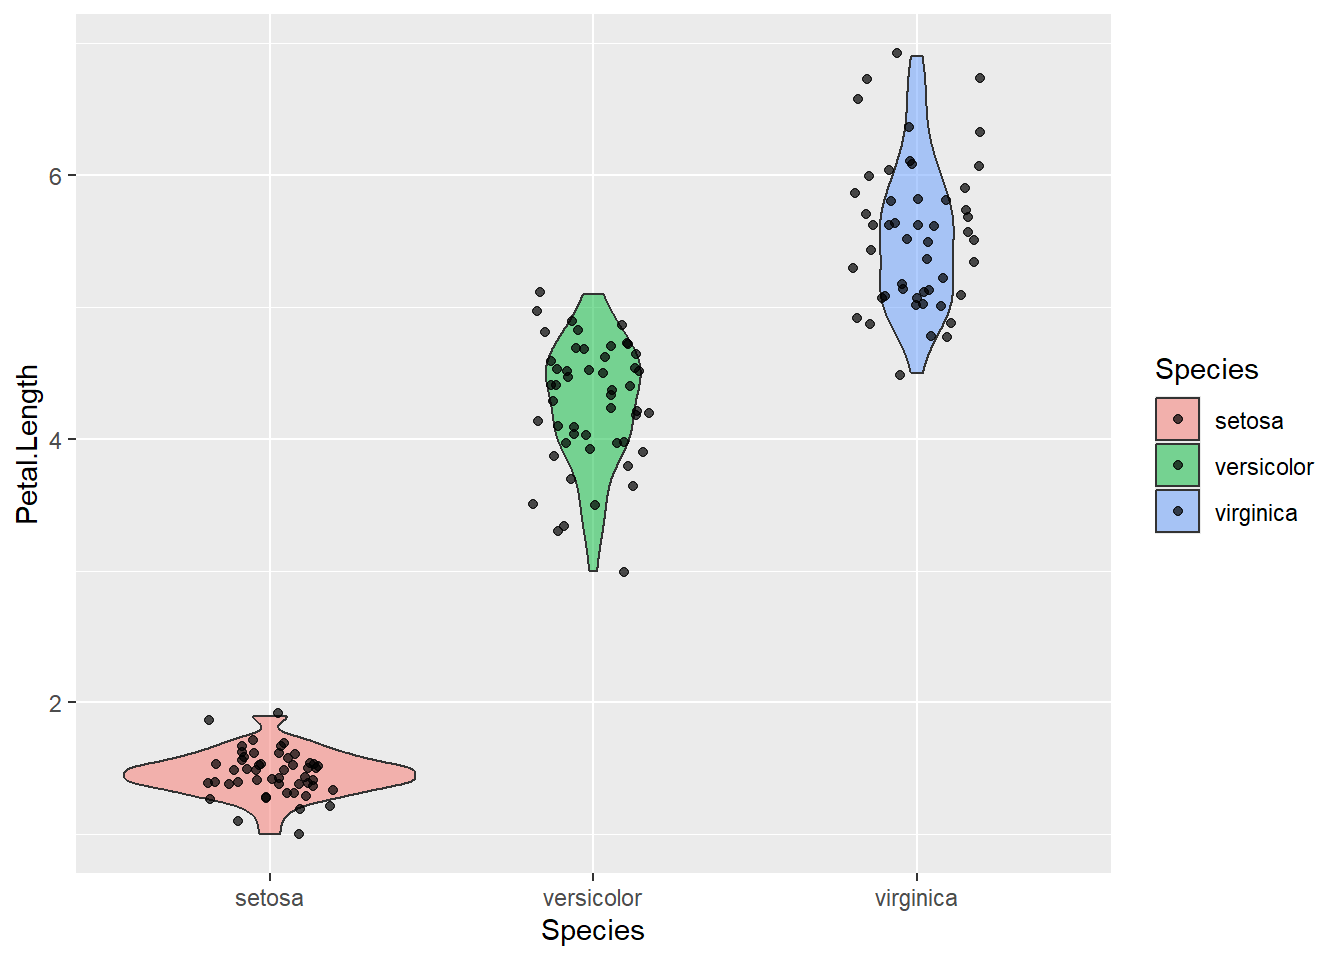
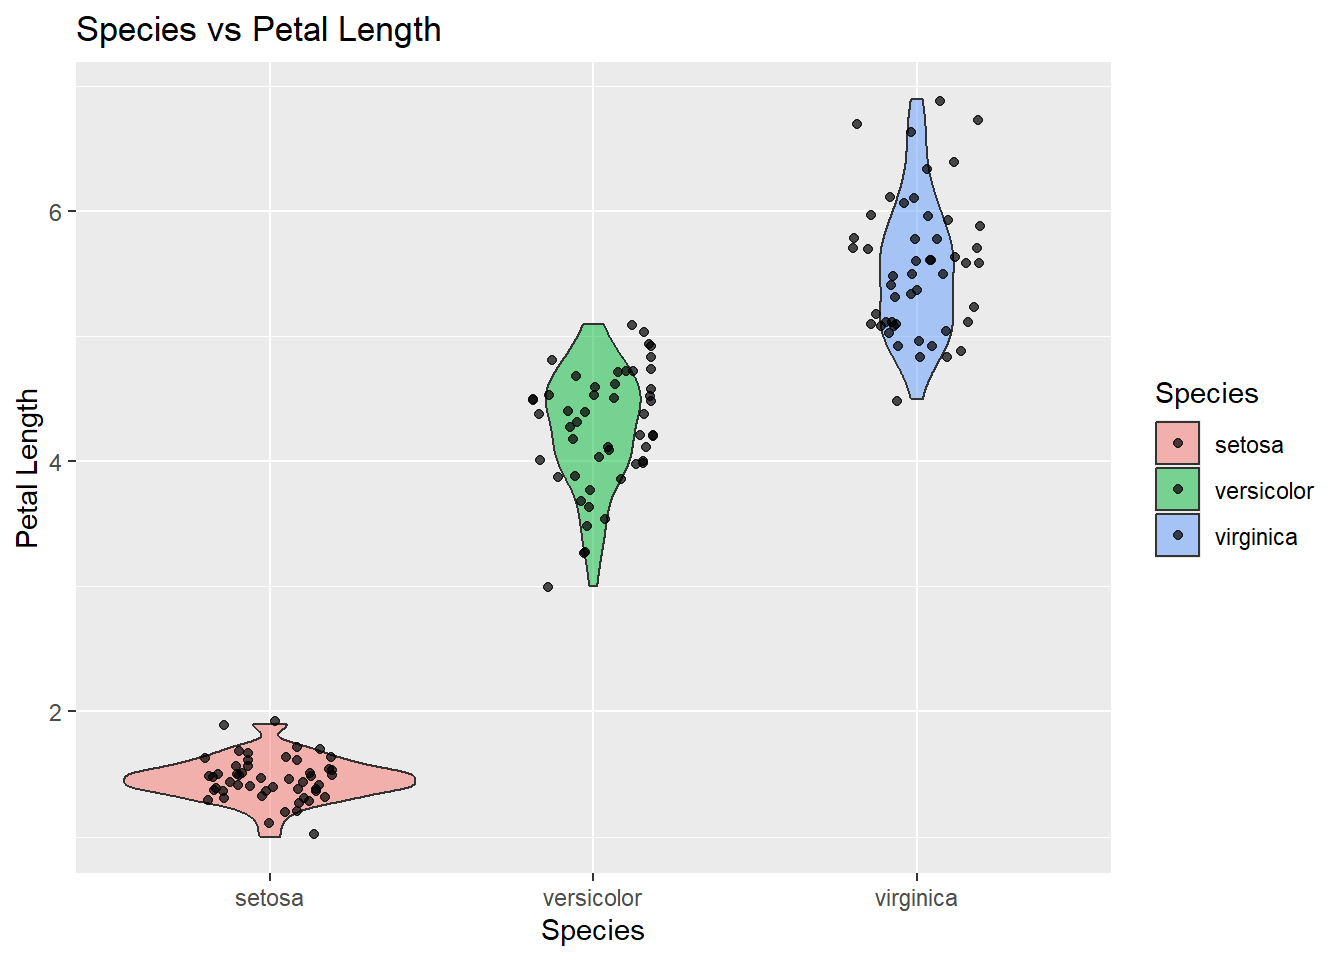
changes

diff --git a/docs/Homework_09.html b/docs/Homework_09.html
@@ -243,7 +243,8 @@ Attaching package: 'dplyr'</code></pre>
 <div class="cell">
 <div class="code-copy-outer-scaffold"><div class="sourceCode cell-code" id="cb10"><pre class="sourceCode r code-with-copy"><code class="sourceCode r"><span id="cb10-1"><a href="#cb10-1" aria-hidden="true" tabindex="-1"></a><span class="fu">ggplot</span>(iris, <span class="fu">aes</span>(<span class="at">x =</span> Species, <span class="at">y =</span> Petal.Length, <span class="at">fill =</span> Species)) <span class="sc">+</span></span>
 <span id="cb10-2"><a href="#cb10-2" aria-hidden="true" tabindex="-1"></a>  <span class="fu">geom_violin</span>(<span class="at">alpha =</span> <span class="fl">0.5</span>) <span class="sc">+</span></span>
-<span id="cb10-3"><a href="#cb10-3" aria-hidden="true" tabindex="-1"></a>  <span class="fu">geom_jitter</span>(<span class="at">width =</span> <span class="fl">0.2</span>, <span class="at">alpha =</span> <span class="fl">0.7</span>)</span></code></pre></div><button title="Copy to Clipboard" class="code-copy-button"><i class="bi"></i></button></div>
+<span id="cb10-3"><a href="#cb10-3" aria-hidden="true" tabindex="-1"></a>   <span class="fu">labs</span>(<span class="at">title =</span> <span class="st">"Species vs Petal Length"</span>, <span class="at">y=</span> <span class="st">"Petal Length"</span>)<span class="sc">+</span></span>
+<span id="cb10-4"><a href="#cb10-4" aria-hidden="true" tabindex="-1"></a>  <span class="fu">geom_jitter</span>(<span class="at">width =</span> <span class="fl">0.2</span>, <span class="at">alpha =</span> <span class="fl">0.7</span>)</span></code></pre></div><button title="Copy to Clipboard" class="code-copy-button"><i class="bi"></i></button></div>
 <div class="cell-output-display">
 <div>
 <figure class="figure">
@@ -308,6 +309,24 @@ Attaching package: 'dplyr'</code></pre>
 4                 1
 5                 1
 6                 1</code></pre>
+</div>
+<div class="code-copy-outer-scaffold"><div class="sourceCode cell-code" id="cb17"><pre class="sourceCode r code-with-copy"><code class="sourceCode r"><span id="cb17-1"><a href="#cb17-1" aria-hidden="true" tabindex="-1"></a>d5<span class="ot">&lt;-</span> d <span class="sc">|&gt;</span></span>
+<span id="cb17-2"><a href="#cb17-2" aria-hidden="true" tabindex="-1"></a>    <span class="fu">mutate</span>(d, <span class="at">newPetal=</span> Petal.Length<span class="sc">&gt;=</span> <span class="dv">4</span>)</span>
+<span id="cb17-3"><a href="#cb17-3" aria-hidden="true" tabindex="-1"></a>x_treatment<span class="ot">&lt;-</span> d5<span class="sc">$</span>Species</span>
+<span id="cb17-4"><a href="#cb17-4" aria-hidden="true" tabindex="-1"></a>y_outcome<span class="ot">&lt;-</span> d5<span class="sc">$</span>newPetal</span>
+<span id="cb17-5"><a href="#cb17-5" aria-hidden="true" tabindex="-1"></a>summary_data<span class="ot">&lt;-</span> <span class="fu">data.frame</span>(x_treatment, y_outcome)</span>
+<span id="cb17-6"><a href="#cb17-6" aria-hidden="true" tabindex="-1"></a></span>
+<span id="cb17-7"><a href="#cb17-7" aria-hidden="true" tabindex="-1"></a>dd1<span class="ot">&lt;-</span> <span class="fu">ggplot</span>(<span class="at">data=</span>summary_data)<span class="sc">+</span></span>
+<span id="cb17-8"><a href="#cb17-8" aria-hidden="true" tabindex="-1"></a>    <span class="fu">aes</span>(<span class="at">x =</span> x_treatment) <span class="sc">+</span> </span>
+<span id="cb17-9"><a href="#cb17-9" aria-hidden="true" tabindex="-1"></a>  <span class="fu">geom_bar</span>(<span class="fu">aes</span>(<span class="at">fill=</span> <span class="fu">as.factor</span>(y_outcome))) </span>
+<span id="cb17-10"><a href="#cb17-10" aria-hidden="true" tabindex="-1"></a></span>
+<span id="cb17-11"><a href="#cb17-11" aria-hidden="true" tabindex="-1"></a><span class="fu">print</span>(dd1)</span></code></pre></div><button title="Copy to Clipboard" class="code-copy-button"><i class="bi"></i></button></div>
+<div class="cell-output-display">
+<div>
+<figure class="figure">
+<p><img src="Homework_09_files/figure-html/unnamed-chunk-5-1.png" class="img-fluid figure-img" width="672"></p>
+</figure>
+</div>
 </div>
 </div>
 
